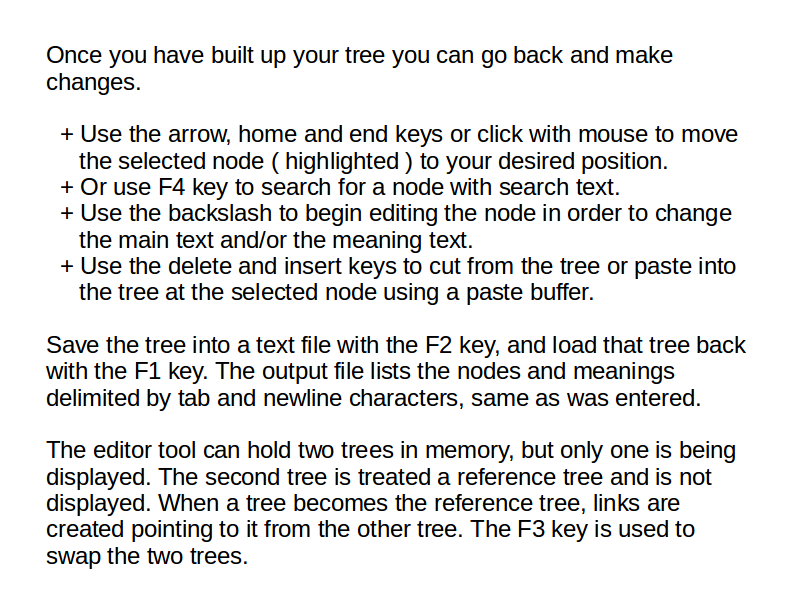
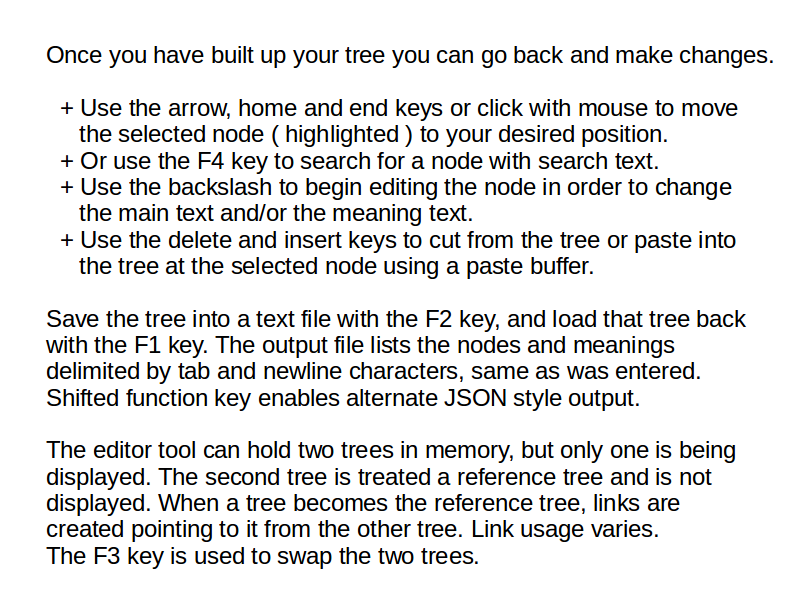
Blurb3, alternate save, QandA template

diff --git a/QandA.html b/QandA.html
@@ -1,0 +1,67 @@
+<!DOCTYPE html>
+<html><head>
+<title>QandA</title></head>
+<body>
+<p id="question"></p>
+<p id="radiochoices"></p>  
+<input id="go" value="Continue" type="button">
+<script>
+var button = document.getElementById("go");
+var question = document.getElementById("question");
+var radiochoices = document.getElementById("radiochoices");
+var childname, childradio;
+
+function display(node) {
+  question.innerHTML = node.meaning;
+  while( radiochoices.lastChild ) {
+    radiochoices.removeChild(radiochoices.lastChild);
+  }
+  childname = [];
+  childradio = [];
+  if( node.child ) {
+    var e, l, n = node.child;
+    while( n ) {
+      e = document.createElement("input");
+      e.type = "radio";
+      e.name = "choices";
+      l = document.createElement("label");
+      l.appendChild(e);
+      l.appendChild(document.createTextNode(n.name));
+      l.appendChild(document.createElement("br"));
+      radiochoices.appendChild(l);
+      childname.push(n.name);
+      childradio.push(e);
+      n = n.next;
+    }
+  }
+  node = node.next;
+}
+
+function getChoice() {
+  for( var i=0; i<childname.length; i++ ) 
+    if( childradio[i].checked ) 
+      return childname[i];
+  return null;
+}
+
+function descend() {
+  var d = current.child;
+  var c = getChoice();
+  while( d && d.name != c) {
+    d = d.next;
+  }
+  if( !d ) return;
+  else
+    current = d;
+  display( current );
+}
+
+//
+// Replace with Tree Definition HERE
+// root = ..
+//
+root = {}
+
+button.addEventListener("click", descend );
+display( current );
+</script></body>
